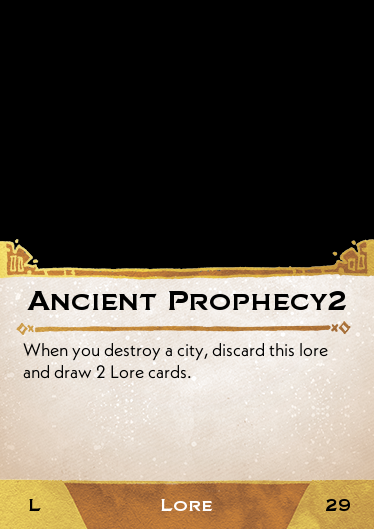
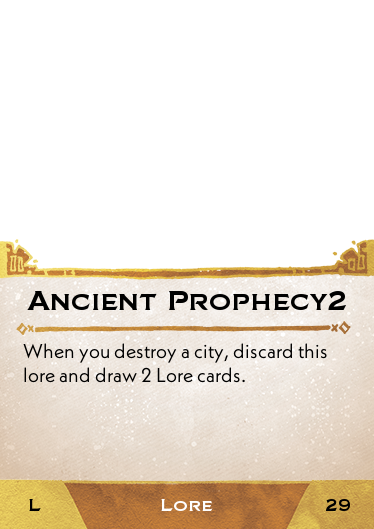
other image

diff --git a/scripts/loreCardsFormatted.py b/scripts/loreCardsFormatted.py
@@ -9,11 +9,11 @@ lore_cards = [
         "footer": "Lore",  # Center footer text (white)
         "footer_right": "29",  # Right footer text (black)
         "footer_font_size": 16,  # Font size for footer text
-        "body_font_size": 18
+        "body_font_size": 20
     },
     {
-        "name": "Ancient Prophecy",  # This should match the image filename in loreImages folder (without .png)
-        "title": "Ancient Prophecy",  # Title displayed on the card
+        "name": "Ancient Prophecy2",  # This should match the image filename in loreImages folder (without .png)
+        "title": "Ancient Prophecy2",  # Title displayed on the card
         "body": (
             "When you destroy a city, discard this lore and draw 2 Lore cards."
         ),
@@ -21,7 +21,7 @@ lore_cards = [
         "footer": "Lore",  # Center footer text (white)
         "footer_right": "29",  # Right footer text (black)
         "footer_font_size": 16,  # Font size for footer text
-        "body_font_size": 18
+        "body_font_size": 20
     },
     # Add more lore cards here following the same format
 ]
